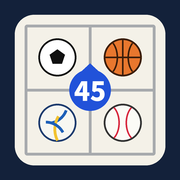
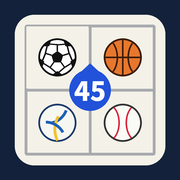
ドッジボールの内野・外野を自動で切り替え、ホッケーの外周を青に、Multiアイコンのサッカーボールを描き直し
Claude-Session: https://claude.ai/code/session_01TVagV47E5hzmgnrl5k2lgn

Changed region(s): [[0.2222, 0.2222, 0.4167, 0.4167], [0.1389, 0.1389, 0.5, 0.5]]

diff --git a/index.html b/index.html
@@ -432,6 +432,15 @@ const DG_OUT=[[1.885,.5,'OUT'],[1.4,.09,'OUT'],[1.4,.91,'OUT'],[1.65,.09,'OUT'],
 const DG={12:{o1:FN(PL('内野11・外野1','11 in / 1 out','内场11・外场1','內場11・外場1'),[...dgInner(11),DG_OUT[0]]),
  o2:FN(PL('内野10・外野2','10 in / 2 out','内场10・外场2','內場10・外場2'),[...dgInner(10),DG_OUT[1],DG_OUT[2]]),
  o3:FN(PL('内野9・外野3','9 in / 3 out','内场9・外场3','內場9・外場3'),[...dgInner(9),DG_OUT[0],DG_OUT[1],DG_OUT[2]])}};
+/* a player dragged into the own inner court becomes 内野, anywhere else 外野 */
+function dgReclass(){
+  const m=v=>v*W/SP.len, x0=m(3)-.5, x1=W-m(3)+.5, y0=m(3)-.5, y1=H-m(3)+.5, msg=[];
+  S.teams.forEach((tm,ti)=>{let ch=false;
+    tm.players.forEach(p=>{const inside=p.y>=y0&&p.y<=y1&&(ti==0?p.x>=x0&&p.x<=W/2:p.x>=W/2&&p.x<=x1),v=inside?'IN':'OUT';
+      if(p.pos!=v){p.pos=v;ch=true}if(p.reg&&p.reg!=v)p.reg=v});
+    if(ch){const a=tm.players.filter(p=>p.pos=='IN').length;msg.push(t('dgCount',{t:tm.name,a,b:tm.players.length-a}))}});
+  if(msg.length) toast(msg.join('　'));
+}
 const dgGen=(ti,n)=>n<2?dgInner(n):[...dgInner(n-1),DG_OUT[0]];
 /* ---- tag rugby (field 40 x 30 m + 5 m in-goal: 50 x 30 m) ---- */
 const TR={5:{flat:FN(PL('フラット（横一列）','Flat line','平行站位','平行站位'),[[.8,.15,'X'],[.8,.325,'X'],[.8,.5,'X'],[.8,.675,'X'],[.8,.85,'X']]),
@@ -568,7 +577,7 @@ const BALLS={
 /* ---------- courts (internal units: long side = W = 105) ---------- */
 const SURF={
  grass:{out:'#24683F',fill:()=>{let s='';for(let i=0;i<10;i++)s+=`<rect x="${i*W/10}" y="0" width="${W/10}" height="${H}" fill="${i%2?'#2A7849':'#2E8250'}"/>`;return s},sw:'repeating-linear-gradient(90deg,#2E8250 0 10%,#2A7849 10% 20%)'},
- turf:{out:'#24683F',fill:()=>{let s='';for(let i=0;i<10;i++)s+=`<rect x="${i*W/10}" y="0" width="${W/10}" height="${H}" fill="${i%2?'#2C67A8':'#3272B6'}"/>`;return s},sw:'repeating-linear-gradient(90deg,#3272B6 0 10%,#2C67A8 10% 20%)'},
+ turf:{out:'#24589A',fill:()=>{let s='';for(let i=0;i<10;i++)s+=`<rect x="${i*W/10}" y="0" width="${W/10}" height="${H}" fill="${i%2?'#2C67A8':'#3272B6'}"/>`;return s},sw:'repeating-linear-gradient(90deg,#3272B6 0 10%,#2C67A8 10% 20%)'},
  wood:{out:'#B9874F',fill:()=>{let s=`<rect x="0" y="0" width="${W}" height="${H}" fill="#D3A26A"/>`;for(let x=3.5;x<W;x+=3.5)s+=`<line x1="${x}" y1="0" x2="${x}" y2="${H}" stroke="rgba(110,60,20,.09)" stroke-width=".2"/>`;return s},sw:'repeating-linear-gradient(90deg,#D3A26A 0 9%,#C8975F 9% 10%)'},
  volley:{out:'#2F6EA8',fill:()=>'',sw:'linear-gradient(90deg,#2F6EA8 0 12%,#E8833A 12% 88%,#2F6EA8 88%)'},
  field:{out:'#1F5E38',fill:()=>`<rect x="0" y="0" width="${W}" height="${H}" fill="#2E8250"/>`,sw:'linear-gradient(0deg,#C08A55 0 30%,#2E8250 30%)'}
@@ -723,25 +732,25 @@ rotate:'ローテーション（時計回りに1つ）',offense:'オフェンス
 formHintG:'並び方を選ぶと、その形に並び直します。プリセットにない人数は自動で並びます。',rosterHintG:'ポジションを入れると、並び方を変えても そのポジションの場所に並びます。入れ終わったら「この配置に並べ直す」で並び直せます。',
 tOtherSport:'このファイルは「{s}」用です。45 Tactics Multiで開いてください',tSport:'{s}に切り替えました',
 print:'印刷・画像で保存',pTitle:'タイトル',pTitlePh:'例：11/3 練習試合',pDate:'日付',pContent:'内容',pCurrent:'今の盤面',pScenes:'保存した場面',pPer:'1ページの図',pRoster:'名簿を入れる',pMemo:'メモ欄を入れる',pBW:'白黒向けにする',pDo:'印刷・PDF',pImg:'画像で保存',
-pHint:'印刷画面で「PDFとして保存」を選ぶとPDFになります。iPhone・iPadで印刷できないときは「画像で保存」をお使いください。',memo:'メモ',tImg:'画像を書き出しました',noScenes:'保存した場面がありません'});
+pHint:'印刷画面で「PDFとして保存」を選ぶとPDFになります。iPhone・iPadで印刷できないときは「画像で保存」をお使いください。',memo:'メモ',tImg:'画像を書き出しました',noScenes:'保存した場面がありません',dgCount:'{t}：内野{a}人・外野{b}人'});
 Object.assign(I18N.en,{sport:'Sport',chooseSport:'Choose a sport',titleM:'Sports tactics board',aboutTextM:'A free, ad-free tactics board for many sports. Everything you enter is saved only on this device and is never visible to anyone else.',
 rotate:'Rotate (one position clockwise)',offense:'Offense',defense:'Defense',bbDef:'Fielding',bbOff:'Batting',bg_court:'Court (default)',bg_field:'Field (default)',
 formHintG:'Choose a formation to line the players up. Other team sizes are arranged automatically.',rosterHintG:'Set a position and the player goes to that spot when you change formation. Tap “Reset to this formation” when you are done.',
 tOtherSport:'This file is for {s}. Please open it in 45 Tactics Multi',tSport:'Switched to {s}',
 print:'Print / save image',pTitle:'Title',pTitlePh:'e.g. Practice match, 3 Nov',pDate:'Date',pContent:'Content',pCurrent:'Current board',pScenes:'Saved scenes',pPer:'Boards per page',pRoster:'Include roster',pMemo:'Include notes box',pBW:'Black & white',pDo:'Print / PDF',pImg:'Save as image',
-pHint:'Choose “Save as PDF” in the print dialog to make a PDF. If printing does not work on iPhone/iPad, use “Save as image”.',memo:'Notes',tImg:'Image exported',noScenes:'No saved scenes'});
+pHint:'Choose “Save as PDF” in the print dialog to make a PDF. If printing does not work on iPhone/iPad, use “Save as image”.',memo:'Notes',tImg:'Image exported',noScenes:'No saved scenes',dgCount:'{t}: {a} in / {b} out'});
 Object.assign(I18N['zh-Hans'],{sport:'项目',chooseSport:'选择运动项目',titleM:'运动战术板',aboutTextM:'免费、无广告、支持多种运动的战术板。输入的内容只保存在本设备中，其他人看不到。',
 rotate:'轮转（顺时针移动一个位置）',offense:'进攻',defense:'防守',bbDef:'守备',bbOff:'进攻',bg_court:'球场（默认）',bg_field:'场地（默认）',
 formHintG:'选择阵型后按该形状重新排列。预设以外的人数会自动排列。',rosterHintG:'设置位置后，更换阵型时球员会站到该位置。设置完成后点击“按此阵型重新排列”。',
 tOtherSport:'此文件用于「{s}」，请在 45 Tactics Multi 中打开',tSport:'已切换为{s}',
 print:'打印・保存图片',pTitle:'标题',pTitlePh:'例：11/3 练习赛',pDate:'日期',pContent:'内容',pCurrent:'当前布阵',pScenes:'已保存的场景',pPer:'每页图数',pRoster:'包含名单',pMemo:'包含备注栏',pBW:'黑白打印',pDo:'打印・PDF',pImg:'保存为图片',
-pHint:'在打印画面选择“存储为PDF”即可生成PDF。iPhone/iPad 无法打印时，请使用“保存为图片”。',memo:'备注',tImg:'已导出图片',noScenes:'没有已保存的场景'});
+pHint:'在打印画面选择“存储为PDF”即可生成PDF。iPhone/iPad 无法打印时，请使用“保存为图片”。',memo:'备注',tImg:'已导出图片',noScenes:'没有已保存的场景',dgCount:'{t}：内场{a}人・外场{b}人'});
 Object.assign(I18N['zh-Hant'],{sport:'項目',chooseSport:'選擇運動項目',titleM:'運動戰術板',aboutTextM:'免費、無廣告、支援多種運動的戰術板。輸入的內容只會儲存在這台裝置中，其他人看不到。',
 rotate:'輪轉（順時針移動一個位置）',offense:'進攻',defense:'防守',bbDef:'守備',bbOff:'進攻',bg_court:'球場（預設）',bg_field:'場地（預設）',
 formHintG:'選擇陣型後依該形狀重新排列。預設以外的人數會自動排列。',rosterHintG:'設定位置後，變更陣型時球員會站到該位置。設定完成後點「依此陣型重新排列」。',
 tOtherSport:'此檔案用於「{s}」，請在 45 Tactics Multi 中開啟',tSport:'已切換為{s}',
 print:'列印・儲存圖片',pTitle:'標題',pTitlePh:'例：11/3 練習賽',pDate:'日期',pContent:'內容',pCurrent:'目前布陣',pScenes:'已儲存的場景',pPer:'每頁圖數',pRoster:'包含名單',pMemo:'包含備註欄',pBW:'黑白列印',pDo:'列印・PDF',pImg:'儲存為圖片',
-pHint:'在列印畫面選擇「儲存為PDF」即可產生PDF。iPhone/iPad 無法列印時，請使用「儲存為圖片」。',memo:'備註',tImg:'已匯出圖片',noScenes:'沒有已儲存的場景'});
+pHint:'在列印畫面選擇「儲存為PDF」即可產生PDF。iPhone/iPad 無法列印時，請使用「儲存為圖片」。',memo:'備註',tImg:'已匯出圖片',noScenes:'沒有已儲存的場景',dgCount:'{t}：內場{a}人・外場{b}人'});
 const LANG_NAMES={ja:'日本語',en:'English','zh-Hans':'简体中文','zh-Hant':'繁體中文'};
 function detectLang(){
   const l=(navigator.language||'en').toLowerCase();
@@ -1222,6 +1231,7 @@ function endDrag(){
   else if(drag.k=='p'&&!drag.moved){ sel=(sel&&sel.t==drag.t&&sel.i==drag.i)?null:{t:drag.t,i:drag.i}; }
   else if(drag.k=='p'&&drag.moved&&!msel){ sel={t:drag.t,i:drag.i}; }
   else if((drag.k=='txtnew'||drag.k=='txt'&&!drag.moved)&&editing!=null){ $('tText').focus(); }
+  if(SPID=='dodgeball'&&drag.moved&&(drag.k=='p'||drag.k=='group')) dgReclass();
   drag=null; render(); save();
 }
 svg.addEventListener('pointerup',endDrag); svg.addEventListener('pointercancel',endDrag);

diff --git a/multi/index.html b/multi/index.html
@@ -433,6 +433,15 @@ const DG_OUT=[[1.885,.5,'OUT'],[1.4,.09,'OUT'],[1.4,.91,'OUT'],[1.65,.09,'OUT'],
 const DG={12:{o1:FN(PL('内野11・外野1','11 in / 1 out','内场11・外场1','內場11・外場1'),[...dgInner(11),DG_OUT[0]]),
  o2:FN(PL('内野10・外野2','10 in / 2 out','内场10・外场2','內場10・外場2'),[...dgInner(10),DG_OUT[1],DG_OUT[2]]),
  o3:FN(PL('内野9・外野3','9 in / 3 out','内场9・外场3','內場9・外場3'),[...dgInner(9),DG_OUT[0],DG_OUT[1],DG_OUT[2]])}};
+/* a player dragged into the own inner court becomes 内野, anywhere else 外野 */
+function dgReclass(){
+  const m=v=>v*W/SP.len, x0=m(3)-.5, x1=W-m(3)+.5, y0=m(3)-.5, y1=H-m(3)+.5, msg=[];
+  S.teams.forEach((tm,ti)=>{let ch=false;
+    tm.players.forEach(p=>{const inside=p.y>=y0&&p.y<=y1&&(ti==0?p.x>=x0&&p.x<=W/2:p.x>=W/2&&p.x<=x1),v=inside?'IN':'OUT';
+      if(p.pos!=v){p.pos=v;ch=true}if(p.reg&&p.reg!=v)p.reg=v});
+    if(ch){const a=tm.players.filter(p=>p.pos=='IN').length;msg.push(t('dgCount',{t:tm.name,a,b:tm.players.length-a}))}});
+  if(msg.length) toast(msg.join('　'));
+}
 const dgGen=(ti,n)=>n<2?dgInner(n):[...dgInner(n-1),DG_OUT[0]];
 /* ---- tag rugby (field 40 x 30 m + 5 m in-goal: 50 x 30 m) ---- */
 const TR={5:{flat:FN(PL('フラット（横一列）','Flat line','平行站位','平行站位'),[[.8,.15,'X'],[.8,.325,'X'],[.8,.5,'X'],[.8,.675,'X'],[.8,.85,'X']]),
@@ -569,7 +578,7 @@ const BALLS={
 /* ---------- courts (internal units: long side = W = 105) ---------- */
 const SURF={
  grass:{out:'#24683F',fill:()=>{let s='';for(let i=0;i<10;i++)s+=`<rect x="${i*W/10}" y="0" width="${W/10}" height="${H}" fill="${i%2?'#2A7849':'#2E8250'}"/>`;return s},sw:'repeating-linear-gradient(90deg,#2E8250 0 10%,#2A7849 10% 20%)'},
- turf:{out:'#24683F',fill:()=>{let s='';for(let i=0;i<10;i++)s+=`<rect x="${i*W/10}" y="0" width="${W/10}" height="${H}" fill="${i%2?'#2C67A8':'#3272B6'}"/>`;return s},sw:'repeating-linear-gradient(90deg,#3272B6 0 10%,#2C67A8 10% 20%)'},
+ turf:{out:'#24589A',fill:()=>{let s='';for(let i=0;i<10;i++)s+=`<rect x="${i*W/10}" y="0" width="${W/10}" height="${H}" fill="${i%2?'#2C67A8':'#3272B6'}"/>`;return s},sw:'repeating-linear-gradient(90deg,#3272B6 0 10%,#2C67A8 10% 20%)'},
  wood:{out:'#B9874F',fill:()=>{let s=`<rect x="0" y="0" width="${W}" height="${H}" fill="#D3A26A"/>`;for(let x=3.5;x<W;x+=3.5)s+=`<line x1="${x}" y1="0" x2="${x}" y2="${H}" stroke="rgba(110,60,20,.09)" stroke-width=".2"/>`;return s},sw:'repeating-linear-gradient(90deg,#D3A26A 0 9%,#C8975F 9% 10%)'},
  volley:{out:'#2F6EA8',fill:()=>'',sw:'linear-gradient(90deg,#2F6EA8 0 12%,#E8833A 12% 88%,#2F6EA8 88%)'},
  field:{out:'#1F5E38',fill:()=>`<rect x="0" y="0" width="${W}" height="${H}" fill="#2E8250"/>`,sw:'linear-gradient(0deg,#C08A55 0 30%,#2E8250 30%)'}
@@ -724,25 +733,25 @@ rotate:'ローテーション（時計回りに1つ）',offense:'オフェンス
 formHintG:'並び方を選ぶと、その形に並び直します。プリセットにない人数は自動で並びます。',rosterHintG:'ポジションを入れると、並び方を変えても そのポジションの場所に並びます。入れ終わったら「この配置に並べ直す」で並び直せます。',
 tOtherSport:'このファイルは「{s}」用です。45 Tactics Multiで開いてください',tSport:'{s}に切り替えました',
 print:'印刷・画像で保存',pTitle:'タイトル',pTitlePh:'例：11/3 練習試合',pDate:'日付',pContent:'内容',pCurrent:'今の盤面',pScenes:'保存した場面',pPer:'1ページの図',pRoster:'名簿を入れる',pMemo:'メモ欄を入れる',pBW:'白黒向けにする',pDo:'印刷・PDF',pImg:'画像で保存',
-pHint:'印刷画面で「PDFとして保存」を選ぶとPDFになります。iPhone・iPadで印刷できないときは「画像で保存」をお使いください。',memo:'メモ',tImg:'画像を書き出しました',noScenes:'保存した場面がありません'});
+pHint:'印刷画面で「PDFとして保存」を選ぶとPDFになります。iPhone・iPadで印刷できないときは「画像で保存」をお使いください。',memo:'メモ',tImg:'画像を書き出しました',noScenes:'保存した場面がありません',dgCount:'{t}：内野{a}人・外野{b}人'});
 Object.assign(I18N.en,{sport:'Sport',chooseSport:'Choose a sport',titleM:'Sports tactics board',aboutTextM:'A free, ad-free tactics board for many sports. Everything you enter is saved only on this device and is never visible to anyone else.',
 rotate:'Rotate (one position clockwise)',offense:'Offense',defense:'Defense',bbDef:'Fielding',bbOff:'Batting',bg_court:'Court (default)',bg_field:'Field (default)',
 formHintG:'Choose a formation to line the players up. Other team sizes are arranged automatically.',rosterHintG:'Set a position and the player goes to that spot when you change formation. Tap “Reset to this formation” when you are done.',
 tOtherSport:'This file is for {s}. Please open it in 45 Tactics Multi',tSport:'Switched to {s}',
 print:'Print / save image',pTitle:'Title',pTitlePh:'e.g. Practice match, 3 Nov',pDate:'Date',pContent:'Content',pCurrent:'Current board',pScenes:'Saved scenes',pPer:'Boards per page',pRoster:'Include roster',pMemo:'Include notes box',pBW:'Black & white',pDo:'Print / PDF',pImg:'Save as image',
-pHint:'Choose “Save as PDF” in the print dialog to make a PDF. If printing does not work on iPhone/iPad, use “Save as image”.',memo:'Notes',tImg:'Image exported',noScenes:'No saved scenes'});
+pHint:'Choose “Save as PDF” in the print dialog to make a PDF. If printing does not work on iPhone/iPad, use “Save as image”.',memo:'Notes',tImg:'Image exported',noScenes:'No saved scenes',dgCount:'{t}: {a} in / {b} out'});
 Object.assign(I18N['zh-Hans'],{sport:'项目',chooseSport:'选择运动项目',titleM:'运动战术板',aboutTextM:'免费、无广告、支持多种运动的战术板。输入的内容只保存在本设备中，其他人看不到。',
 rotate:'轮转（顺时针移动一个位置）',offense:'进攻',defense:'防守',bbDef:'守备',bbOff:'进攻',bg_court:'球场（默认）',bg_field:'场地（默认）',
 formHintG:'选择阵型后按该形状重新排列。预设以外的人数会自动排列。',rosterHintG:'设置位置后，更换阵型时球员会站到该位置。设置完成后点击“按此阵型重新排列”。',
 tOtherSport:'此文件用于「{s}」，请在 45 Tactics Multi 中打开',tSport:'已切换为{s}',
 print:'打印・保存图片',pTitle:'标题',pTitlePh:'例：11/3 练习赛',pDate:'日期',pContent:'内容',pCurrent:'当前布阵',pScenes:'已保存的场景',pPer:'每页图数',pRoster:'包含名单',pMemo:'包含备注栏',pBW:'黑白打印',pDo:'打印・PDF',pImg:'保存为图片',
-pHint:'在打印画面选择“存储为PDF”即可生成PDF。iPhone/iPad 无法打印时，请使用“保存为图片”。',memo:'备注',tImg:'已导出图片',noScenes:'没有已保存的场景'});
+pHint:'在打印画面选择“存储为PDF”即可生成PDF。iPhone/iPad 无法打印时，请使用“保存为图片”。',memo:'备注',tImg:'已导出图片',noScenes:'没有已保存的场景',dgCount:'{t}：内场{a}人・外场{b}人'});
 Object.assign(I18N['zh-Hant'],{sport:'項目',chooseSport:'選擇運動項目',titleM:'運動戰術板',aboutTextM:'免費、無廣告、支援多種運動的戰術板。輸入的內容只會儲存在這台裝置中，其他人看不到。',
 rotate:'輪轉（順時針移動一個位置）',offense:'進攻',defense:'防守',bbDef:'守備',bbOff:'進攻',bg_court:'球場（預設）',bg_field:'場地（預設）',
 formHintG:'選擇陣型後依該形狀重新排列。預設以外的人數會自動排列。',rosterHintG:'設定位置後，變更陣型時球員會站到該位置。設定完成後點「依此陣型重新排列」。',
 tOtherSport:'此檔案用於「{s}」，請在 45 Tactics Multi 中開啟',tSport:'已切換為{s}',
 print:'列印・儲存圖片',pTitle:'標題',pTitlePh:'例：11/3 練習賽',pDate:'日期',pContent:'內容',pCurrent:'目前布陣',pScenes:'已儲存的場景',pPer:'每頁圖數',pRoster:'包含名單',pMemo:'包含備註欄',pBW:'黑白列印',pDo:'列印・PDF',pImg:'儲存為圖片',
-pHint:'在列印畫面選擇「儲存為PDF」即可產生PDF。iPhone/iPad 無法列印時，請使用「儲存為圖片」。',memo:'備註',tImg:'已匯出圖片',noScenes:'沒有已儲存的場景'});
+pHint:'在列印畫面選擇「儲存為PDF」即可產生PDF。iPhone/iPad 無法列印時，請使用「儲存為圖片」。',memo:'備註',tImg:'已匯出圖片',noScenes:'沒有已儲存的場景',dgCount:'{t}：內場{a}人・外場{b}人'});
 const LANG_NAMES={ja:'日本語',en:'English','zh-Hans':'简体中文','zh-Hant':'繁體中文'};
 function detectLang(){
   const l=(navigator.language||'en').toLowerCase();
@@ -1223,6 +1232,7 @@ function endDrag(){
   else if(drag.k=='p'&&!drag.moved){ sel=(sel&&sel.t==drag.t&&sel.i==drag.i)?null:{t:drag.t,i:drag.i}; }
   else if(drag.k=='p'&&drag.moved&&!msel){ sel={t:drag.t,i:drag.i}; }
   else if((drag.k=='txtnew'||drag.k=='txt'&&!drag.moved)&&editing!=null){ $('tText').focus(); }
+  if(SPID=='dodgeball'&&drag.moved&&(drag.k=='p'||drag.k=='group')) dgReclass();
   drag=null; render(); save();
 }
 svg.addEventListener('pointerup',endDrag); svg.addEventListener('pointercancel',endDrag);

diff --git a/src/app.html b/src/app.html
@@ -432,6 +432,15 @@ const DG_OUT=[[1.885,.5,'OUT'],[1.4,.09,'OUT'],[1.4,.91,'OUT'],[1.65,.09,'OUT'],
 const DG={12:{o1:FN(PL('内野11・外野1','11 in / 1 out','内场11・外场1','內場11・外場1'),[...dgInner(11),DG_OUT[0]]),
  o2:FN(PL('内野10・外野2','10 in / 2 out','内场10・外场2','內場10・外場2'),[...dgInner(10),DG_OUT[1],DG_OUT[2]]),
  o3:FN(PL('内野9・外野3','9 in / 3 out','内场9・外场3','內場9・外場3'),[...dgInner(9),DG_OUT[0],DG_OUT[1],DG_OUT[2]])}};
+/* a player dragged into the own inner court becomes 内野, anywhere else 外野 */
+function dgReclass(){
+  const m=v=>v*W/SP.len, x0=m(3)-.5, x1=W-m(3)+.5, y0=m(3)-.5, y1=H-m(3)+.5, msg=[];
+  S.teams.forEach((tm,ti)=>{let ch=false;
+    tm.players.forEach(p=>{const inside=p.y>=y0&&p.y<=y1&&(ti==0?p.x>=x0&&p.x<=W/2:p.x>=W/2&&p.x<=x1),v=inside?'IN':'OUT';
+      if(p.pos!=v){p.pos=v;ch=true}if(p.reg&&p.reg!=v)p.reg=v});
+    if(ch){const a=tm.players.filter(p=>p.pos=='IN').length;msg.push(t('dgCount',{t:tm.name,a,b:tm.players.length-a}))}});
+  if(msg.length) toast(msg.join('　'));
+}
 const dgGen=(ti,n)=>n<2?dgInner(n):[...dgInner(n-1),DG_OUT[0]];
 /* ---- tag rugby (field 40 x 30 m + 5 m in-goal: 50 x 30 m) ---- */
 const TR={5:{flat:FN(PL('フラット（横一列）','Flat line','平行站位','平行站位'),[[.8,.15,'X'],[.8,.325,'X'],[.8,.5,'X'],[.8,.675,'X'],[.8,.85,'X']]),
@@ -568,7 +577,7 @@ const BALLS={
 /* ---------- courts (internal units: long side = W = 105) ---------- */
 const SURF={
  grass:{out:'#24683F',fill:()=>{let s='';for(let i=0;i<10;i++)s+=`<rect x="${i*W/10}" y="0" width="${W/10}" height="${H}" fill="${i%2?'#2A7849':'#2E8250'}"/>`;return s},sw:'repeating-linear-gradient(90deg,#2E8250 0 10%,#2A7849 10% 20%)'},
- turf:{out:'#24683F',fill:()=>{let s='';for(let i=0;i<10;i++)s+=`<rect x="${i*W/10}" y="0" width="${W/10}" height="${H}" fill="${i%2?'#2C67A8':'#3272B6'}"/>`;return s},sw:'repeating-linear-gradient(90deg,#3272B6 0 10%,#2C67A8 10% 20%)'},
+ turf:{out:'#24589A',fill:()=>{let s='';for(let i=0;i<10;i++)s+=`<rect x="${i*W/10}" y="0" width="${W/10}" height="${H}" fill="${i%2?'#2C67A8':'#3272B6'}"/>`;return s},sw:'repeating-linear-gradient(90deg,#3272B6 0 10%,#2C67A8 10% 20%)'},
  wood:{out:'#B9874F',fill:()=>{let s=`<rect x="0" y="0" width="${W}" height="${H}" fill="#D3A26A"/>`;for(let x=3.5;x<W;x+=3.5)s+=`<line x1="${x}" y1="0" x2="${x}" y2="${H}" stroke="rgba(110,60,20,.09)" stroke-width=".2"/>`;return s},sw:'repeating-linear-gradient(90deg,#D3A26A 0 9%,#C8975F 9% 10%)'},
  volley:{out:'#2F6EA8',fill:()=>'',sw:'linear-gradient(90deg,#2F6EA8 0 12%,#E8833A 12% 88%,#2F6EA8 88%)'},
  field:{out:'#1F5E38',fill:()=>`<rect x="0" y="0" width="${W}" height="${H}" fill="#2E8250"/>`,sw:'linear-gradient(0deg,#C08A55 0 30%,#2E8250 30%)'}
@@ -723,25 +732,25 @@ rotate:'ローテーション（時計回りに1つ）',offense:'オフェンス
 formHintG:'並び方を選ぶと、その形に並び直します。プリセットにない人数は自動で並びます。',rosterHintG:'ポジションを入れると、並び方を変えても そのポジションの場所に並びます。入れ終わったら「この配置に並べ直す」で並び直せます。',
 tOtherSport:'このファイルは「{s}」用です。45 Tactics Multiで開いてください',tSport:'{s}に切り替えました',
 print:'印刷・画像で保存',pTitle:'タイトル',pTitlePh:'例：11/3 練習試合',pDate:'日付',pContent:'内容',pCurrent:'今の盤面',pScenes:'保存した場面',pPer:'1ページの図',pRoster:'名簿を入れる',pMemo:'メモ欄を入れる',pBW:'白黒向けにする',pDo:'印刷・PDF',pImg:'画像で保存',
-pHint:'印刷画面で「PDFとして保存」を選ぶとPDFになります。iPhone・iPadで印刷できないときは「画像で保存」をお使いください。',memo:'メモ',tImg:'画像を書き出しました',noScenes:'保存した場面がありません'});
+pHint:'印刷画面で「PDFとして保存」を選ぶとPDFになります。iPhone・iPadで印刷できないときは「画像で保存」をお使いください。',memo:'メモ',tImg:'画像を書き出しました',noScenes:'保存した場面がありません',dgCount:'{t}：内野{a}人・外野{b}人'});
 Object.assign(I18N.en,{sport:'Sport',chooseSport:'Choose a sport',titleM:'Sports tactics board',aboutTextM:'A free, ad-free tactics board for many sports. Everything you enter is saved only on this device and is never visible to anyone else.',
 rotate:'Rotate (one position clockwise)',offense:'Offense',defense:'Defense',bbDef:'Fielding',bbOff:'Batting',bg_court:'Court (default)',bg_field:'Field (default)',
 formHintG:'Choose a formation to line the players up. Other team sizes are arranged automatically.',rosterHintG:'Set a position and the player goes to that spot when you change formation. Tap “Reset to this formation” when you are done.',
 tOtherSport:'This file is for {s}. Please open it in 45 Tactics Multi',tSport:'Switched to {s}',
 print:'Print / save image',pTitle:'Title',pTitlePh:'e.g. Practice match, 3 Nov',pDate:'Date',pContent:'Content',pCurrent:'Current board',pScenes:'Saved scenes',pPer:'Boards per page',pRoster:'Include roster',pMemo:'Include notes box',pBW:'Black & white',pDo:'Print / PDF',pImg:'Save as image',
-pHint:'Choose “Save as PDF” in the print dialog to make a PDF. If printing does not work on iPhone/iPad, use “Save as image”.',memo:'Notes',tImg:'Image exported',noScenes:'No saved scenes'});
+pHint:'Choose “Save as PDF” in the print dialog to make a PDF. If printing does not work on iPhone/iPad, use “Save as image”.',memo:'Notes',tImg:'Image exported',noScenes:'No saved scenes',dgCount:'{t}: {a} in / {b} out'});
 Object.assign(I18N['zh-Hans'],{sport:'项目',chooseSport:'选择运动项目',titleM:'运动战术板',aboutTextM:'免费、无广告、支持多种运动的战术板。输入的内容只保存在本设备中，其他人看不到。',
 rotate:'轮转（顺时针移动一个位置）',offense:'进攻',defense:'防守',bbDef:'守备',bbOff:'进攻',bg_court:'球场（默认）',bg_field:'场地（默认）',
 formHintG:'选择阵型后按该形状重新排列。预设以外的人数会自动排列。',rosterHintG:'设置位置后，更换阵型时球员会站到该位置。设置完成后点击“按此阵型重新排列”。',
 tOtherSport:'此文件用于「{s}」，请在 45 Tactics Multi 中打开',tSport:'已切换为{s}',
 print:'打印・保存图片',pTitle:'标题',pTitlePh:'例：11/3 练习赛',pDate:'日期',pContent:'内容',pCurrent:'当前布阵',pScenes:'已保存的场景',pPer:'每页图数',pRoster:'包含名单',pMemo:'包含备注栏',pBW:'黑白打印',pDo:'打印・PDF',pImg:'保存为图片',
-pHint:'在打印画面选择“存储为PDF”即可生成PDF。iPhone/iPad 无法打印时，请使用“保存为图片”。',memo:'备注',tImg:'已导出图片',noScenes:'没有已保存的场景'});
+pHint:'在打印画面选择“存储为PDF”即可生成PDF。iPhone/iPad 无法打印时，请使用“保存为图片”。',memo:'备注',tImg:'已导出图片',noScenes:'没有已保存的场景',dgCount:'{t}：内场{a}人・外场{b}人'});
 Object.assign(I18N['zh-Hant'],{sport:'項目',chooseSport:'選擇運動項目',titleM:'運動戰術板',aboutTextM:'免費、無廣告、支援多種運動的戰術板。輸入的內容只會儲存在這台裝置中，其他人看不到。',
 rotate:'輪轉（順時針移動一個位置）',offense:'進攻',defense:'防守',bbDef:'守備',bbOff:'進攻',bg_court:'球場（預設）',bg_field:'場地（預設）',
 formHintG:'選擇陣型後依該形狀重新排列。預設以外的人數會自動排列。',rosterHintG:'設定位置後，變更陣型時球員會站到該位置。設定完成後點「依此陣型重新排列」。',
 tOtherSport:'此檔案用於「{s}」，請在 45 Tactics Multi 中開啟',tSport:'已切換為{s}',
 print:'列印・儲存圖片',pTitle:'標題',pTitlePh:'例：11/3 練習賽',pDate:'日期',pContent:'內容',pCurrent:'目前布陣',pScenes:'已儲存的場景',pPer:'每頁圖數',pRoster:'包含名單',pMemo:'包含備註欄',pBW:'黑白列印',pDo:'列印・PDF',pImg:'儲存為圖片',
-pHint:'在列印畫面選擇「儲存為PDF」即可產生PDF。iPhone/iPad 無法列印時，請使用「儲存為圖片」。',memo:'備註',tImg:'已匯出圖片',noScenes:'沒有已儲存的場景'});
+pHint:'在列印畫面選擇「儲存為PDF」即可產生PDF。iPhone/iPad 無法列印時，請使用「儲存為圖片」。',memo:'備註',tImg:'已匯出圖片',noScenes:'沒有已儲存的場景',dgCount:'{t}：內場{a}人・外場{b}人'});
 const LANG_NAMES={ja:'日本語',en:'English','zh-Hans':'简体中文','zh-Hant':'繁體中文'};
 function detectLang(){
   const l=(navigator.language||'en').toLowerCase();
@@ -1222,6 +1231,7 @@ function endDrag(){
   else if(drag.k=='p'&&!drag.moved){ sel=(sel&&sel.t==drag.t&&sel.i==drag.i)?null:{t:drag.t,i:drag.i}; }
   else if(drag.k=='p'&&drag.moved&&!msel){ sel={t:drag.t,i:drag.i}; }
   else if((drag.k=='txtnew'||drag.k=='txt'&&!drag.moved)&&editing!=null){ $('tText').focus(); }
+  if(SPID=='dodgeball'&&drag.moved&&(drag.k=='p'||drag.k=='group')) dgReclass();
   drag=null; render(); save();
 }
 svg.addEventListener('pointerup',endDrag); svg.addEventListener('pointercancel',endDrag);
